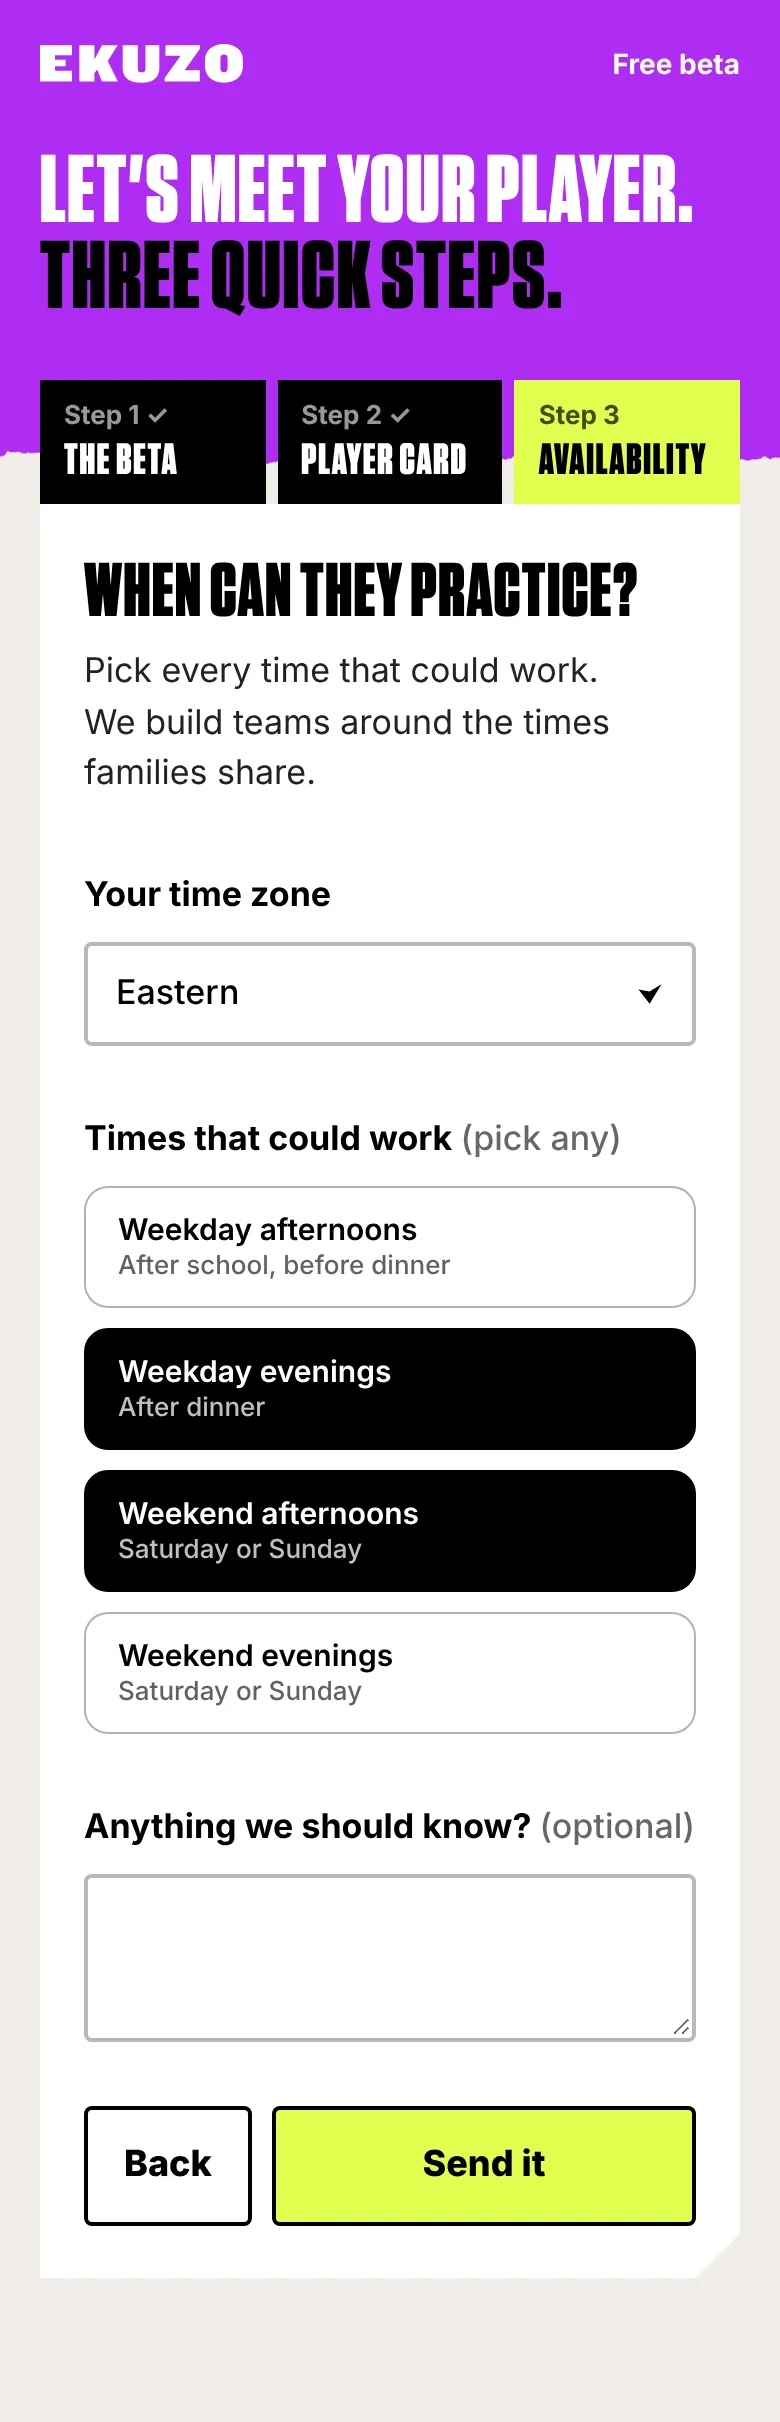
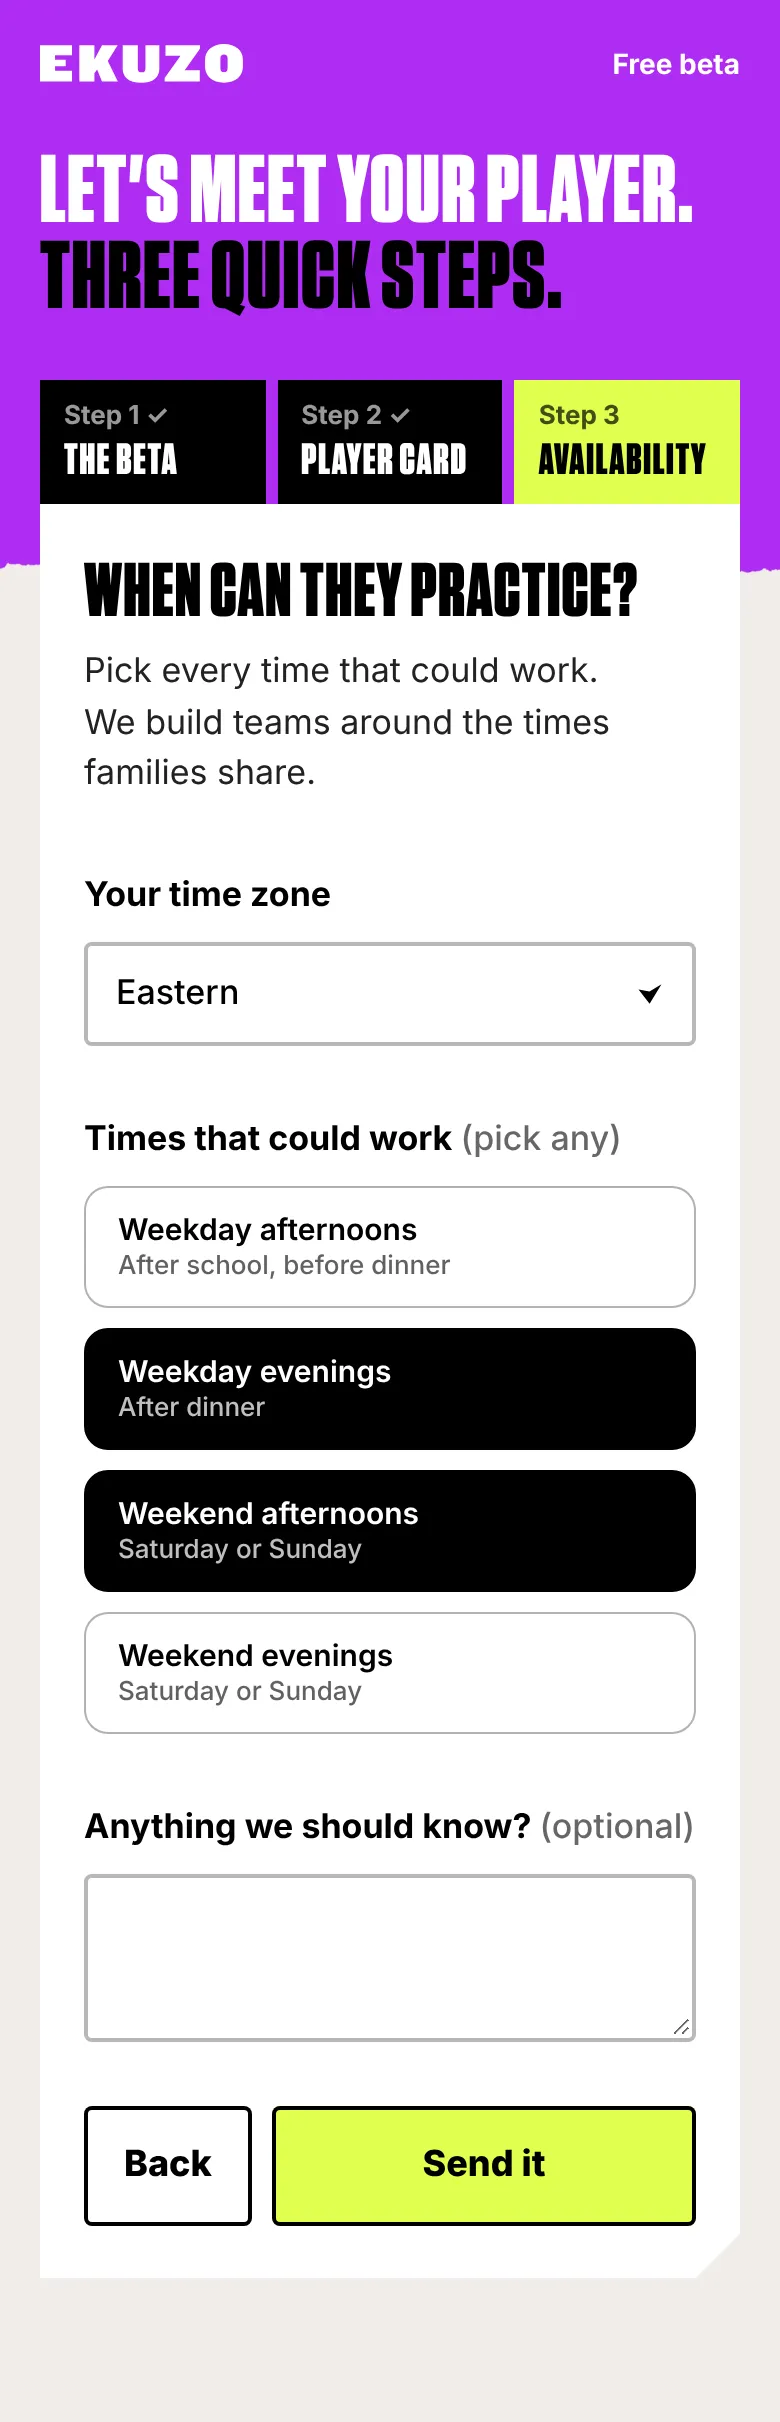
BETA wizard: torn paper edge sits below the step tabs
Claude-Session: https://claude.ai/code/session_01543UG8e9JwTD5Qg5aKwmc9

diff --git a/app/season1/beta/start/start.html b/app/season1/beta/start/start.html
@@ -31,7 +31,7 @@ fieldset{border:0;min-width:0}
 :focus-visible{outline:3px solid var(--blue);outline-offset:3px}
 .d{font-family:var(--display);font-weight:900;text-transform:uppercase;letter-spacing:.02em;line-height:.9;text-wrap:balance}
 
-.top{position:relative;background:var(--violet);color:#fff;padding:0 20px 84px}
+.top{--tear:max(36px,3.3vw);position:relative;background:var(--violet);color:#fff;padding:0 20px calc(var(--tear) + 104px)}
 .top .in{max-width:640px;margin-inline:auto}
 .nav{display:flex;align-items:center;justify-content:space-between;height:64px}
 .nav img{height:20px;width:auto;display:block}
@@ -40,7 +40,7 @@ fieldset{border:0;min-width:0}
 .top h1 em{font-style:normal;color:var(--black)}
 .top:after{content:"";position:absolute;left:0;right:0;bottom:-3px;height:max(36px,3.3vw);background:url('/images/new%20torn%20paper/torn-paper-grey-top-1@2x.png') center bottom/cover no-repeat;pointer-events:none}
 
-main{position:relative;z-index:2;max-width:680px;margin:-56px auto 0;padding:0 20px 72px}
+main{position:relative;z-index:2;max-width:680px;margin:calc(-1 * (max(36px,3.3vw) + 76px)) auto 0;padding:0 20px 72px}
 .dots{list-style:none;display:grid;grid-template-columns:repeat(3,1fr);gap:6px;margin-bottom:0}
 .dots li{background:var(--black);color:rgba(255,255,255,.6);font:700 13px/1.2 var(--body);padding:11px 12px}
 .dots li b{display:block;font:900 22px/1 var(--display);letter-spacing:.04em;text-transform:uppercase;color:#fff;margin-top:2px}
@@ -130,7 +130,7 @@ main{position:relative;z-index:2;max-width:680px;margin:-56px auto 0;padding:0 2
 .pad[data-s=early]{background:var(--bad)}
 .best{font:700 16px/1.4 var(--body);margin-top:12px;min-height:22px}
 @media (min-width:700px){
- .top{padding-bottom:104px}.nav{height:80px}.nav img{height:24px}
+ .top{padding-bottom:calc(var(--tear) + 116px)}.nav{height:80px}.nav img{height:24px}
  .card{padding:40px 40px 36px}
  .opts.col{grid-template-columns:repeat(2,1fr)}
 }
